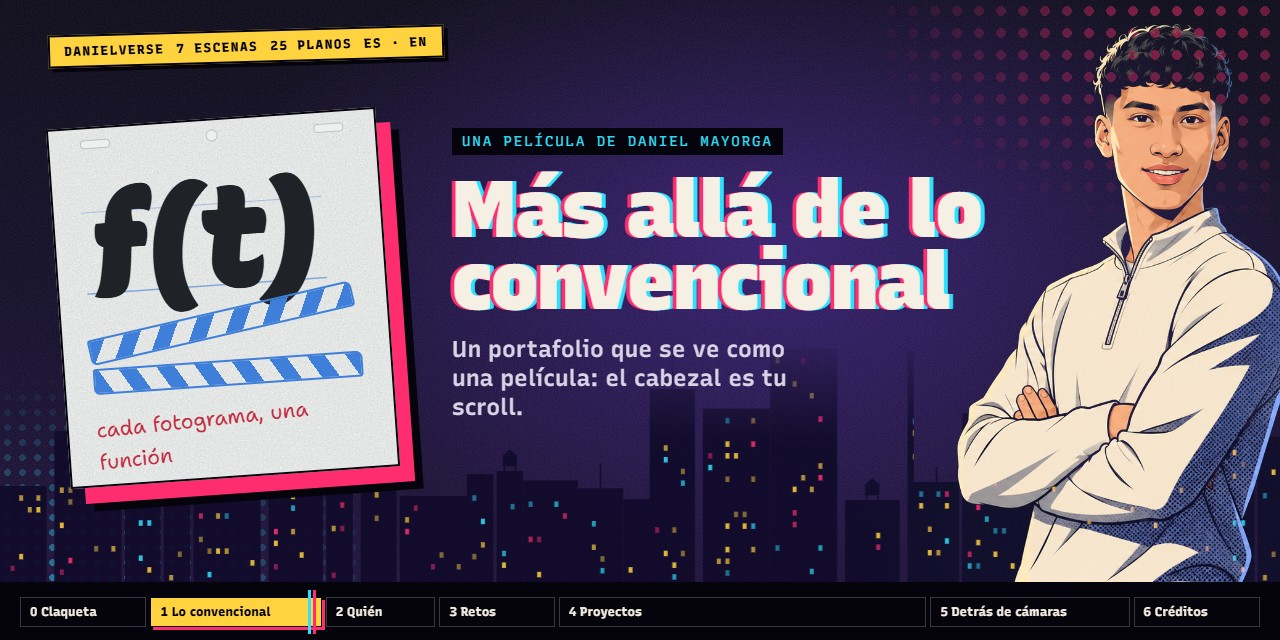
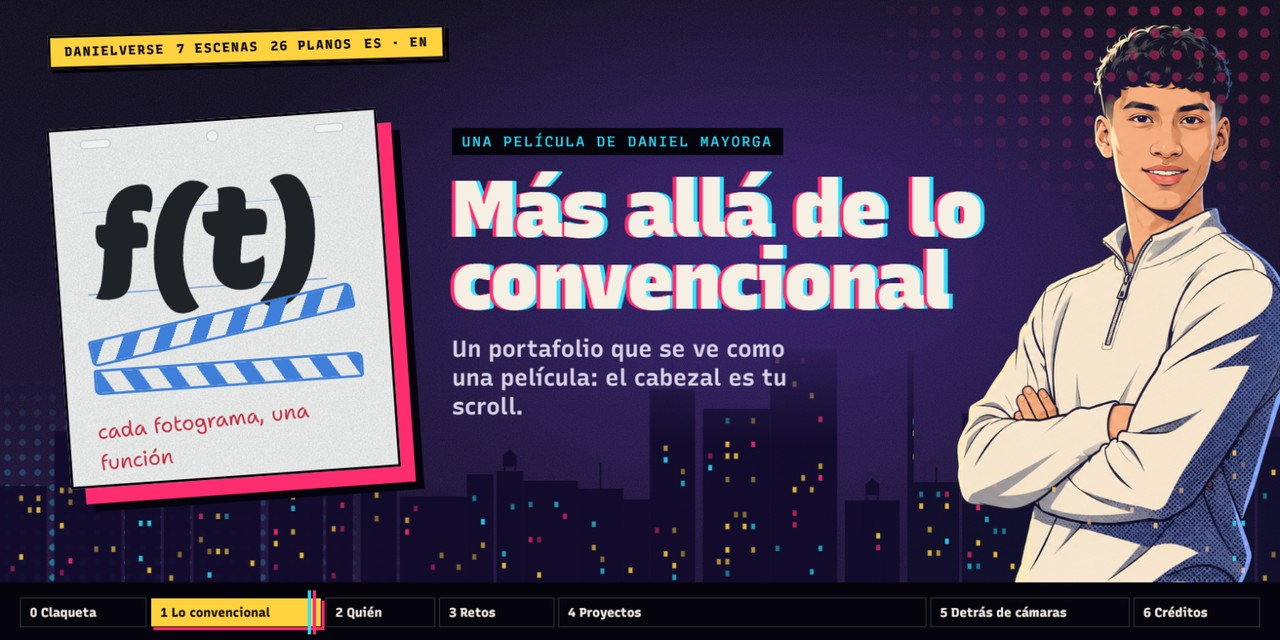
docs: :memo: AddShowreelToReadme

diff --git a/README.md b/README.md
@@ -1,6 +1,6 @@
 <div align="center">
 
-<a href="https://dvanielx03.github.io/DanielVerse/"><img src=".github/assets/tarjeta.jpg" alt="DanielVerse: una hoja con f(t) y una claqueta a lápiz, el lema «Más allá de lo convencional» en tintas magenta y cian, una ciudad de noche y el avatar de Daniel" width="100%"></a>
+<a href="https://dvanielx03.github.io/DanielVerse/"><img src=".github/assets/tarjeta.jpg" alt="DanielVerse, 7 escenas y 26 planos: una hoja con f(t) y una claqueta a lápiz, el lema «Más allá de lo convencional» en tintas magenta y cian, una ciudad de noche y el avatar de Daniel" width="100%"></a>
 
 # DanielVerse · f(t)
 
@@ -45,7 +45,7 @@ Todo el sitio es una función del tiempo, `f(t)`, donde `t` es cuánto has desli
     <td width="50%"><img src=".github/assets/02-lo-convencional.jpg" alt="Escena 1: el portafolio de siempre bocetado a lápiz, con nombre, tecnologías, enlaces y tres tarjetas vacías"><br><sub><b>1 · Lo convencional.</b> El portafolio de siempre, a lápiz.</sub></td>
   </tr>
   <tr>
-    <td><img src=".github/assets/03-ruptura.jpg" alt="La ruptura: la hoja agrietada resulta ser una viñeta más de una pared con los 25 planos, sobre la ciudad de noche"><br><sub><b>1 · La ruptura.</b> La hoja rota era una viñeta de la pared de storyboard.</sub></td>
+    <td><img src=".github/assets/03-ruptura.jpg" alt="La ruptura: la hoja agrietada resulta ser una viñeta más de una pared con los 26 planos, sobre la ciudad de noche"><br><sub><b>1 · La ruptura.</b> La hoja rota era una viñeta de la pared de storyboard.</sub></td>
     <td><img src=".github/assets/04-transicion.jpg" alt="Una transición a medio camino: un tajo en diagonal con bordes magenta y cian deja entrar la escena siguiente"><br><sub><b>Transición.</b> Cada sección entra a su manera; esta, con un tajo.</sub></td>
   </tr>
   <tr>
@@ -62,6 +62,10 @@ Todo el sitio es una función del tiempo, `f(t)`, donde `t` es cuánto has desli
   </tr>
 </table>
 
+<img src=".github/assets/12-showreel.jpg" alt="Escena 5: el showreel «Siete mundos» en una viñeta vertical, con la lista de los siete mundos y el que está sonando encendido" width="100%">
+
+<sub><b>5 · Siete mundos.</b> Mi showreel corre al llegar a la sección y enciende el mundo que está sonando: video con IA, collage, 2D por código, Blender, Three.js, low-poly y UI.</sub>
+
 <img src=".github/assets/11-movil.jpg" alt="Cinco momentos a tamaño de móvil: la claqueta, la pared de proyectos con sus accesos a GitHub, un díptico, el avatar y el contacto" width="100%">
 
 <sub>La misma experiencia a 340 px de ancho.</sub>
@@ -75,10 +79,10 @@ Todo el sitio es una función del tiempo, `f(t)`, donde `t` es cuánto has desli
 | 2 | Quién | Mi presentación junto al avatar en boceto, tinta y final. | Suspenso: silencios, oleadas y golpes graves |
 | 3 | Retos | Cuatro hitos en montaje rápido. | Descarga |
 | 4 | Proyectos | [XEON](https://github.com/Dvanielx03/Xeon-agente-cotizaciones), [Tool Rental](https://github.com/Dvanielx03/Tool-rental-platform) y [ResumeLens](https://github.com/Dvanielx03/ResumeLens-cv): claqueta, díptico e inspección por capas, con acceso directo al código. | Suspenso, para poder leer |
-| 5 | Detrás de cámaras | Cómo está hecha la película y mis herramientas propias. | Segunda descarga |
+| 5 | Detrás de cámaras | Cómo está hecha la película, mis herramientas propias y el showreel «Siete mundos». | Suspenso que sube y cae la segunda descarga cuando arranca el showreel |
 | 6 | Créditos y contacto | Créditos que suben y un iris que cierra. | El tema, lento y lejano |
 
-Son 25 planos. Con las flechas <kbd>←</kbd> <kbd>→</kbd> saltas de plano; con <kbd>S</kbd> enciendes o apagas el sonido.
+Son 26 planos. Con las flechas <kbd>←</kbd> <kbd>→</kbd> saltas de plano; con <kbd>S</kbd> enciendes o apagas el sonido.
 
 > [!NOTE]
 > El sonido está apagado por defecto y no se descarga hasta que lo activas.
@@ -163,7 +167,7 @@ Si quieres hablar: [LinkedIn](https://www.linkedin.com/in/daniel-santiago-mayorg
 
 **DanielVerse · f(t)** is the portfolio of Daniel Mayorga, a Junior Backend Developer focused on AI, built as a film whose playhead is your scroll.
 
-It opens as the usual portfolio, sketched in pencil. Your scroll breaks it, and the real film is behind: seven scenes, 25 shots, a creative transition into each section, two worlds (paper and a night city in comic-print inks), and every drawing shown as sketch, ink and final colour.
+It opens as the usual portfolio, sketched in pencil. Your scroll breaks it, and the real film is behind: seven scenes, 26 shots including a showreel, a creative transition into each section, two worlds (paper and a night city in comic-print inks), and every drawing shown as sketch, ink and final colour.
 
 The site is static ([Astro](https://astro.build) and TypeScript) with no animation library. The engine writes one variable per shot, its progress from 0 to 1, and CSS does the rest. Sound is off by default; the music is original and generated with ElevenLabs.
 
